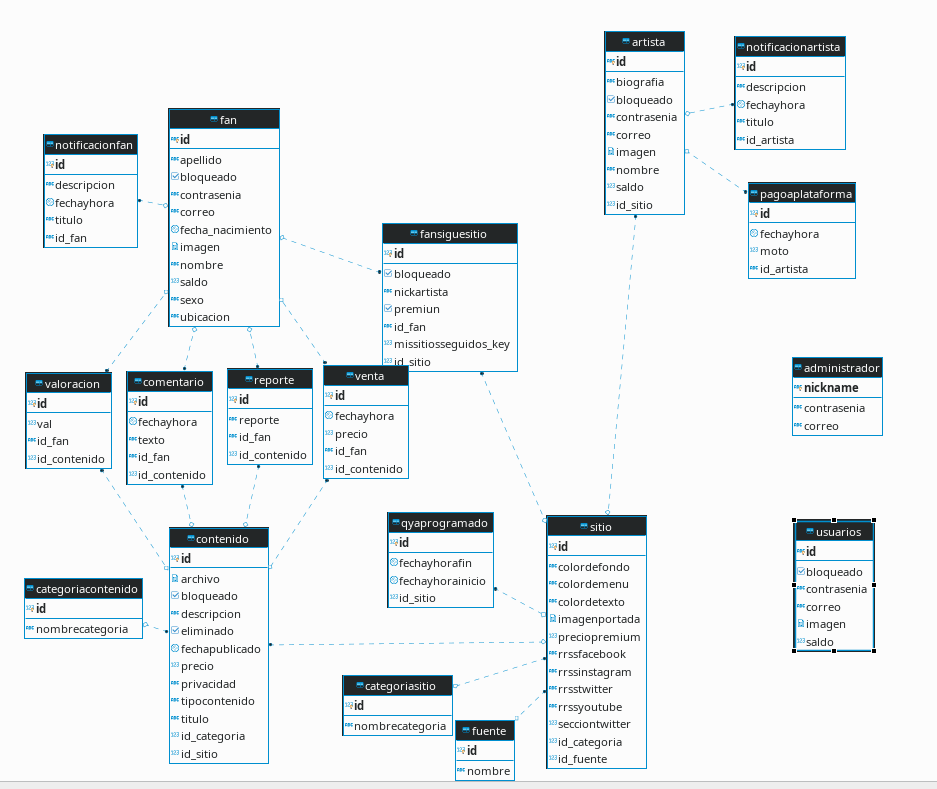
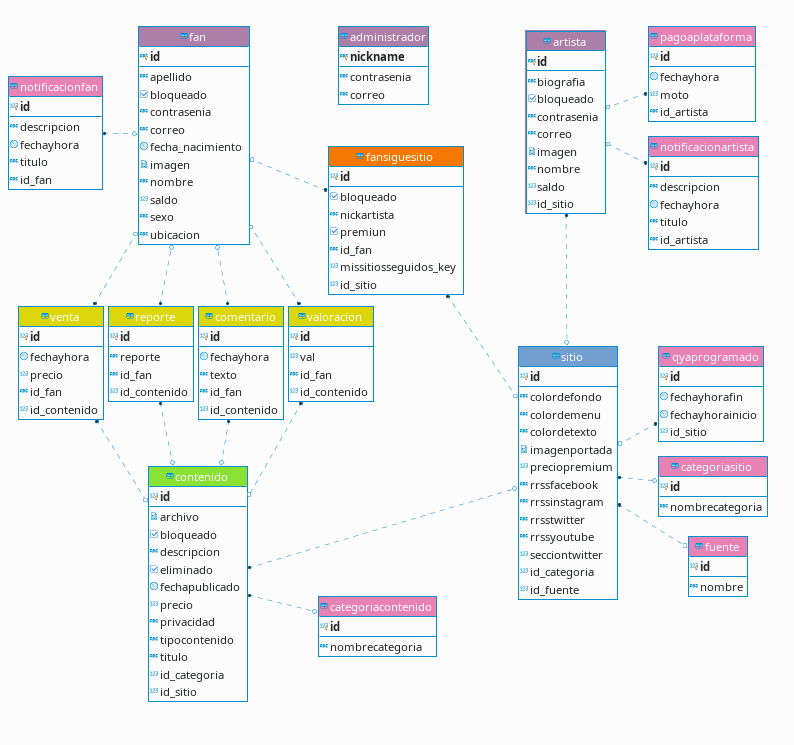
Correccion de herencia JPA y actualizacion de Modelo Relacional

diff --git a/TodoArteEJB/ejbModule/com/TodoArte/Classes/Fan.java b/TodoArteEJB/ejbModule/com/TodoArte/Classes/Fan.java
@@ -14,10 +14,10 @@ import javax.persistence.Enumerated;
 import javax.persistence.JoinColumn;
 import javax.persistence.MapKey;
 import javax.persistence.OneToMany;
+import javax.persistence.PrimaryKeyJoinColumn;
 import javax.persistence.Table;
 
 import com.TodoArte.Enums.Sexo;
-
 
 @Entity
 @Table(name = "fan")

diff --git a/TodoArteEJB/ejbModule/com/TodoArte/Classes/Usuarios.java b/TodoArteEJB/ejbModule/com/TodoArte/Classes/Usuarios.java
@@ -11,7 +11,7 @@ import javax.persistence.Lob;
 
 @Entity
 @Inheritance(strategy = InheritanceType.TABLE_PER_CLASS)
-public class Usuarios implements Serializable{
+public abstract class Usuarios implements Serializable{
 	@Id
 	@Column(name = "id")
     protected String nikname;

diff --git a/TodoArteEJB/ejbModule/com/TodoArte/Classes/Artista.java b/TodoArteEJB/ejbModule/com/TodoArte/Classes/Artista.java
@@ -11,6 +11,7 @@ import javax.persistence.JoinColumn;
 import javax.persistence.MapKey;
 import javax.persistence.OneToMany;
 import javax.persistence.OneToOne;
+import javax.persistence.PrimaryKeyJoinColumn;
 import javax.persistence.Table;
 
 @Entity
